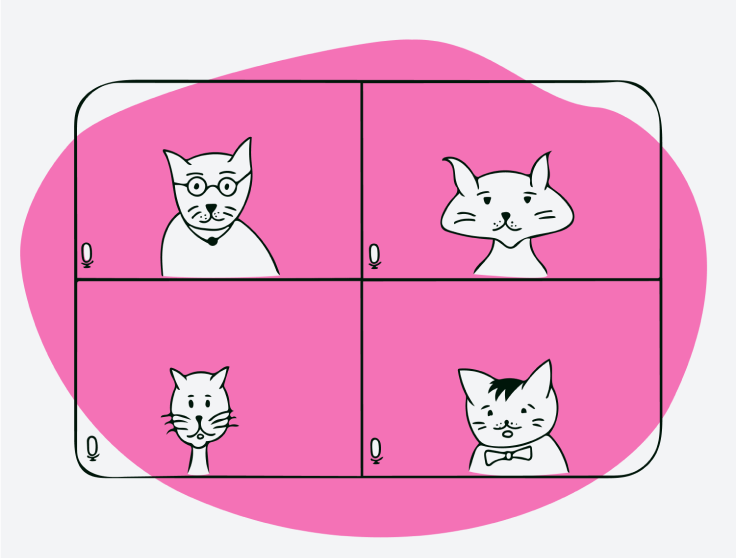
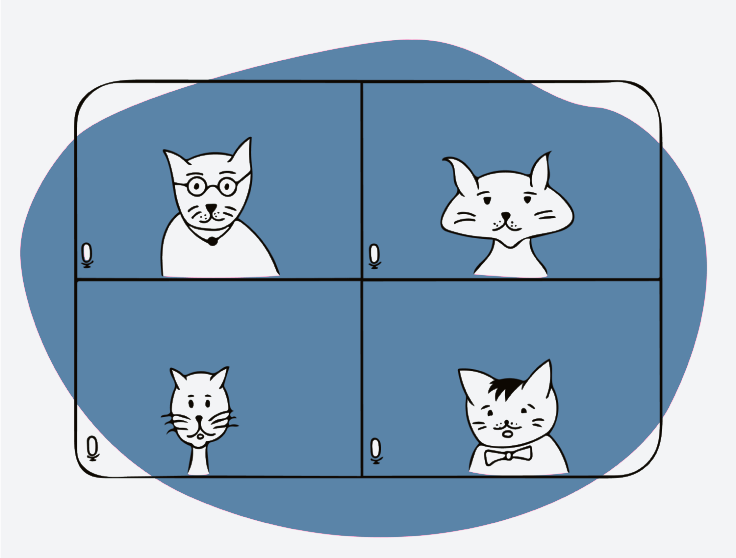
add custom color

diff --git a/css/colors.css b/css/colors.css
@@ -13,16 +13,16 @@
 --gray_50: #F9FAFB;
 
 /* pink */
---pink_900: #831843;
---pink_800: #9D174D;
---pink_700: #BE185D;
---pink_600: #DB2777;
---pink_500: #EC4899;
---pink_400: #F472B6;
---pink_300: #F9A8D4;
---pink_200: #FBCFE8;
---pink_100: #FCE7F3;
---pink_50: #FDF2F8;
+--pink_900: #08306b;
+--pink_800: #083b83;
+--pink_700: #08519C;
+--pink_600: #2171b5;
+--pink_500: #4292c6;
+--pink_400: #6baed6;
+--pink_300: #9ecae1;
+--pink_200: #c6dbef;
+--pink_100: #deebf7;
+--pink_50: #f7fbff;
 
 /* stone */
 --stone_900: #1C1917;

diff --git a/css/components.css b/css/components.css
@@ -306,7 +306,7 @@ nav .nav-container li > a:focus{
   height: 26px;
 }
 .skills__cards img:hover{
-  filter: hue-rotate(280deg);
+  filter: hue-rotate(30deg);
 }
 
 
